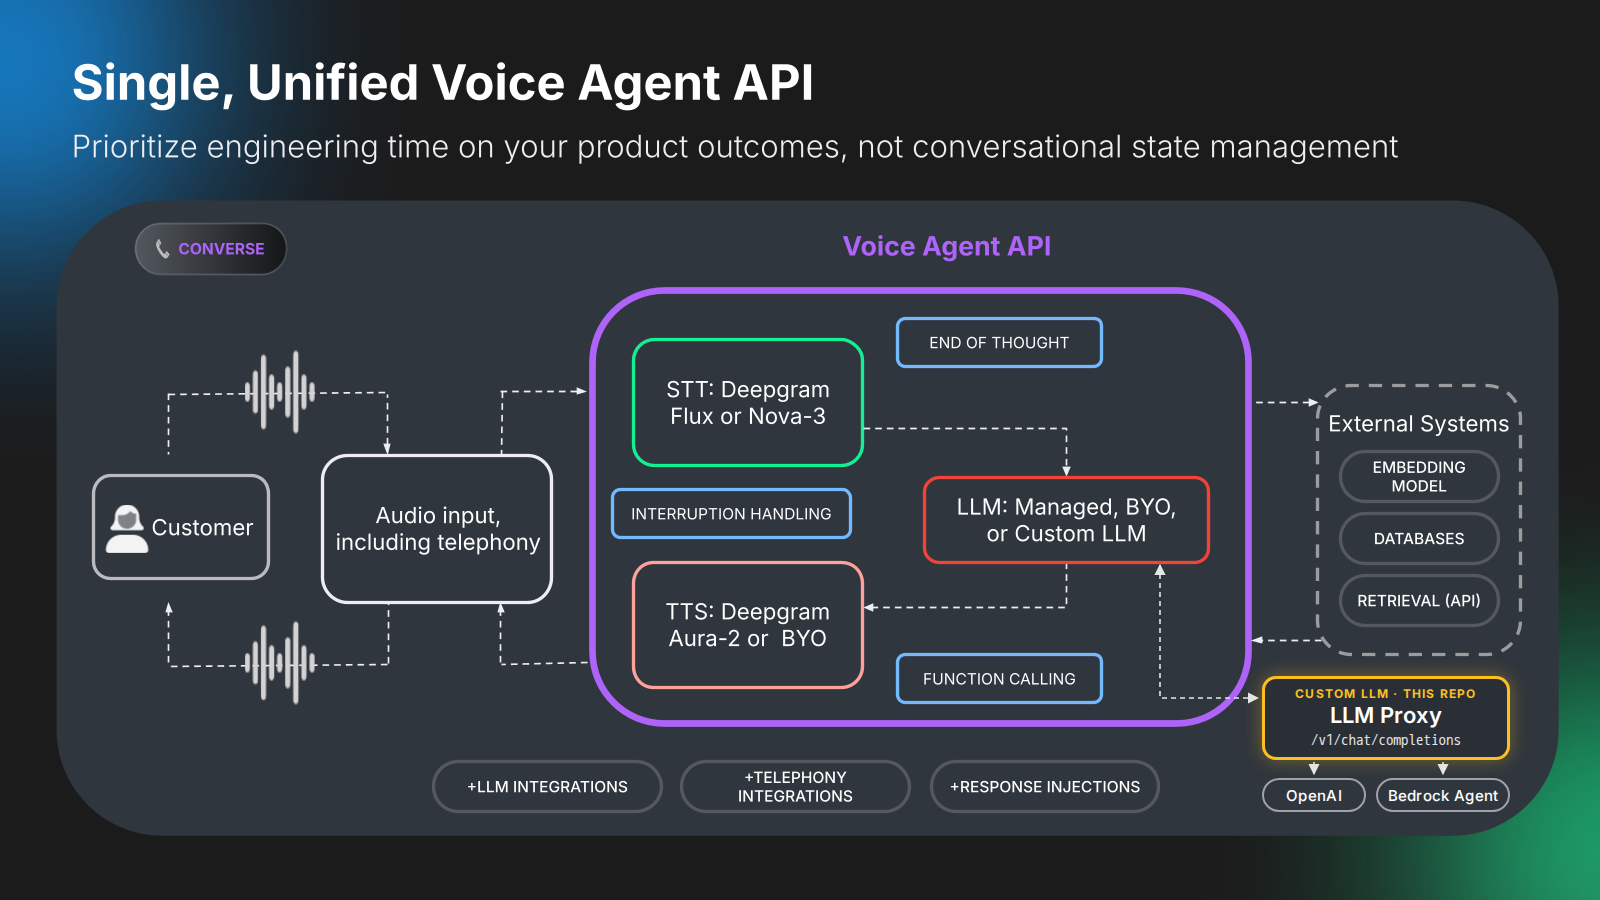
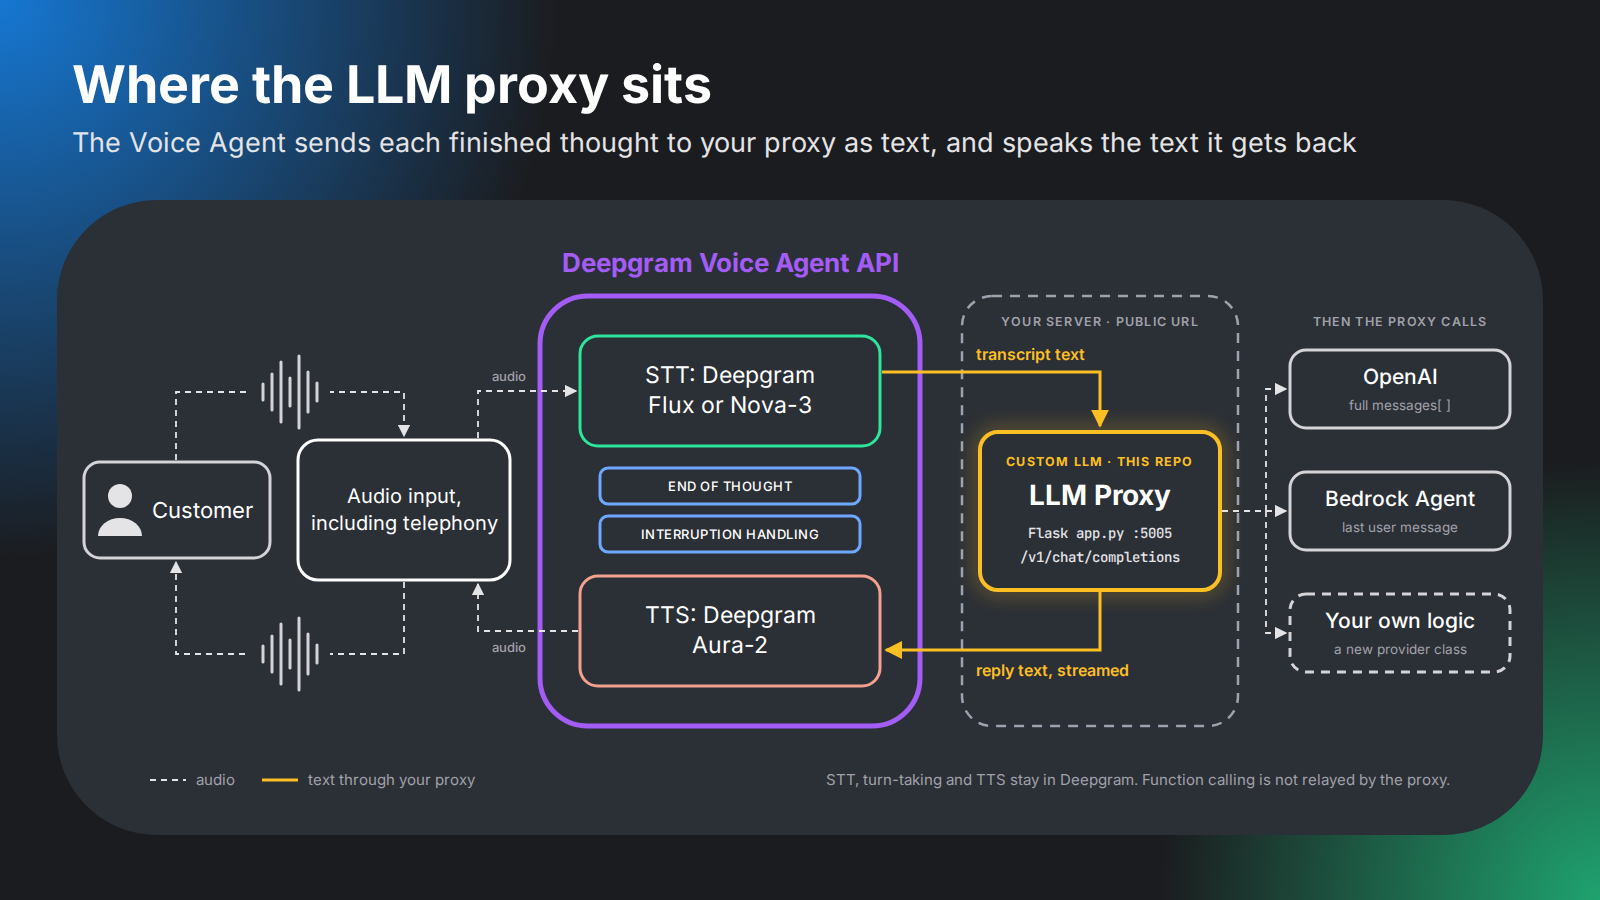
docs: redraw the How it works diagram around the proxy's text path
Replace the annotated slide with a diagram drawn in the slide's style
that shows the mechanism. STT turns speech into transcript text, the
Voice Agent sends that text to the proxy, the proxy forwards it to
OpenAI, a Bedrock Agent, or your own logic, and the reply text goes
back to TTS. Audio never reaches the proxy. Rewrite the caption to
match, and link Adding New Providers for the own-logic case.

The PNG is generated from docs/assets/src/voice-agent-api.html, which
replaces the overlay and the base slide export. Screenshotting it in a
1600x900 viewport reproduces the committed PNG byte for byte.

Claude-Session: https://claude.ai/code/session_015o6V3Mm9ZeDBsa5GEiLRCe

diff --git a/docs/assets/src/voice-agent-api.html b/docs/assets/src/voice-agent-api.html
@@ -1,0 +1,130 @@
+<!doctype html><meta charset=utf-8>
+<!--
+  Source for docs/assets/voice-agent-api.png, drawn in the style of the
+  "Single, Unified Voice Agent API" slide. To regenerate: open this file
+  in a 1600x900 viewport (deviceScaleFactor 1) and screenshot it.
+-->
+<link href="https://fonts.googleapis.com/css2?family=Inter:wght@400;500;600;700&family=JetBrains+Mono:wght@500&display=swap" rel="stylesheet">
+<style>
+html,body{margin:0;background:#1b1c1f}
+svg{display:block;width:100%;height:auto;font-family:Inter,sans-serif}
+.mono{font-family:'JetBrains Mono',monospace}
+</style>
+<svg viewBox="0 0 1600 900" role=img aria-label="Deepgram Voice Agent API with this LLM proxy: STT sends transcript text to the proxy, the proxy forwards it to OpenAI, a Bedrock Agent or your own logic, and the reply text goes back to TTS">
+<defs>
+  <radialGradient id=gb gradientUnits=userSpaceOnUse cx=0 cy=0 r=560><stop offset=0 stop-color="#1677d2"/><stop offset=1 stop-color="#1677d2" stop-opacity=0 /></radialGradient>
+  <radialGradient id=gg gradientUnits=userSpaceOnUse cx=1600 cy=900 r=440><stop offset=0 stop-color="#1fa36f"/><stop offset=1 stop-color="#1fa36f" stop-opacity=0 /></radialGradient>
+  <marker id=aw viewBox="0 0 10 10" refX=9 refY=5 markerWidth=7 markerHeight=7 orient=auto-start-reverse><path d="M0,0L10,5L0,10z" fill="#e4e4e7"/></marker>
+  <marker id=ay viewBox="0 0 10 10" refX=9 refY=5 markerWidth=6 markerHeight=6 orient=auto-start-reverse><path d="M0,0L10,5L0,10z" fill="#fbbf24"/></marker>
+  <filter id=glow x=-30% y=-30% width=160% height=160%><feGaussianBlur stdDeviation=10 /></filter>
+  <g id=wave stroke="#d4d4d8" stroke-width=3 stroke-linecap=round>
+    <line x1=-27 y1=-8 x2=-27 y2=8 /><line x1=-18 y1=-18 x2=-18 y2=18 /><line x1=-9 y1=-30 x2=-9 y2=30 />
+    <line x1=0 y1=-14 x2=0 y2=14 /><line x1=9 y1=-36 x2=9 y2=36 /><line x1=18 y1=-20 x2=18 y2=20 /><line x1=27 y1=-9 x2=27 y2=9 />
+  </g>
+</defs>
+
+<rect width=1600 height=900 fill="#1b1c1f"/>
+<rect width=1600 height=900 fill="url(#gb)"/>
+<rect width=1600 height=900 fill="url(#gg)"/>
+
+<text x=72 y=103 fill="#fff" font-size=52 font-weight=700>Where the LLM proxy sits</text>
+<text x=72 y=152 fill="#e4e4e7" font-size=27 font-weight=400>The Voice Agent sends each finished thought to your proxy as text, and speaks the text it gets back</text>
+
+<rect x=57 y=200 width=1486 height=635 rx=100 fill="#2b2f36"/>
+
+<!-- ===== Deepgram Voice Agent ===== -->
+<text x=730 y=272 text-anchor=middle fill="#a35cf5" font-size=26 font-weight=700>Deepgram Voice Agent API</text>
+<rect x=540 y=296 width=380 height=430 rx=48 fill=none stroke="#a35cf5" stroke-width=5 />
+
+<rect x=580 y=336 width=300 height=110 rx=18 fill="#2b2f36" stroke="#2ee59d" stroke-width=3 />
+<text x=730 y=383 text-anchor=middle fill="#fff" font-size=23>STT: Deepgram</text>
+<text x=730 y=413 text-anchor=middle fill="#fff" font-size=23>Flux or Nova-3</text>
+
+<g font-size=13 font-weight=500 fill="#fff" letter-spacing=.5>
+  <rect x=600 y=468 width=260 height=36 rx=8 fill=none stroke="#6ea8fe" stroke-width=3 />
+  <text x=730 y=491 text-anchor=middle>END OF THOUGHT</text>
+  <rect x=600 y=516 width=260 height=36 rx=8 fill=none stroke="#6ea8fe" stroke-width=3 />
+  <text x=730 y=539 text-anchor=middle>INTERRUPTION HANDLING</text>
+</g>
+
+<rect x=580 y=576 width=300 height=110 rx=18 fill="#2b2f36" stroke="#f4a08f" stroke-width=3 />
+<text x=730 y=623 text-anchor=middle fill="#fff" font-size=23>TTS: Deepgram</text>
+<text x=730 y=653 text-anchor=middle fill="#fff" font-size=23>Aura-2</text>
+
+<!-- ===== Caller side ===== -->
+<rect x=84 y=462 width=186 height=96 rx=16 fill=none stroke="#d4d4d8" stroke-width=3 />
+<g fill="#e4e4e7"><circle cx=120 cy=496 r=12 /><path d="M98 536a22 18 0 0 1 44 0z"/></g>
+<text x=152 y=518 fill="#fff" font-size=22>Customer</text>
+
+<rect x=298 y=440 width=212 height=140 rx=20 fill=none stroke="#fff" stroke-width=3 />
+<text x=404 y=503 text-anchor=middle fill="#fff" font-size=20>Audio input,</text>
+<text x=404 y=530 text-anchor=middle fill="#fff" font-size=20>including telephony</text>
+
+<g fill=none stroke="#e4e4e7" stroke-width=1.8 stroke-dasharray="6 5">
+  <path d="M176 460 V392 H404 V436" marker-end="url(#aw)"/>
+  <path d="M404 582 V654 H176 V562" marker-end="url(#aw)"/>
+  <path d="M478 438 V391 H576" marker-end="url(#aw)"/>
+  <path d="M578 631 H478 V584" marker-end="url(#aw)"/>
+</g>
+<g><rect x=250 y=354 width=80 height=76 fill="#2b2f36"/><use href="#wave" x=290 y=392 /></g>
+<g><rect x=250 y=616 width=80 height=76 fill="#2b2f36"/><use href="#wave" x=290 y=654 /></g>
+<text x=509 y=381 text-anchor=middle fill="#a1a1aa" font-size=13 font-weight=500>audio</text>
+<text x=509 y=652 text-anchor=middle fill="#a1a1aa" font-size=13 font-weight=500>audio</text>
+
+<!-- ===== Your server: the proxy ===== -->
+<rect x=962 y=296 width=276 height=430 rx=30 fill=none stroke="#9ca3af" stroke-width=2.5 stroke-dasharray="10 8"/>
+<text x=1100 y=326 text-anchor=middle fill="#a1a1aa" font-size=12.5 font-weight=600 letter-spacing=1.2>YOUR SERVER · PUBLIC URL</text>
+
+<g id=proxy><title>LLM proxy (this repo)</title>
+<rect x=980 y=432 width=240 height=158 rx=18 fill=none stroke="#fbbf24" stroke-width=8 opacity=.45 filter="url(#glow)"/>
+<rect x=980 y=432 width=240 height=158 rx=18 fill="#2b2f36" stroke="#fbbf24" stroke-width=4 />
+<text x=1100 y=466 text-anchor=middle fill="#fbbf24" font-size=12.5 font-weight=700 letter-spacing=1.2>CUSTOM LLM · THIS REPO</text>
+<text x=1100 y=505 text-anchor=middle fill="#fff" font-size=28 font-weight=700>LLM Proxy</text>
+<text x=1100 y=538 text-anchor=middle fill="#e4e4e7" font-size=14 class=mono>Flask app.py :5005</text>
+<text x=1100 y=562 text-anchor=middle fill="#e4e4e7" font-size=14 class=mono>/v1/chat/completions</text>
+</g>
+
+<!-- the text path: STT -> proxy -> TTS -->
+<g id=text-path><title>Text path: transcript to the proxy, reply text back to TTS</title>
+<g fill=none stroke="#fbbf24" stroke-width=3>
+  <path d="M882 372 H1100 V426" marker-end="url(#ay)"/>
+  <path d="M1100 592 V650 H886" marker-end="url(#ay)"/>
+</g>
+<g font-weight=600 font-size=16 fill="#fbbf24">
+  <text x=976 y=360>transcript text</text>
+  <text x=976 y=676>reply text, streamed</text>
+</g>
+</g>
+
+<!-- ===== What the proxy does with the text ===== -->
+<g id=providers><title>What the proxy calls</title>
+<text x=1400 y=326 text-anchor=middle fill="#a1a1aa" font-size=12.5 font-weight=600 letter-spacing=1.2>THEN THE PROXY CALLS</text>
+<g fill=none stroke="#d4d4d8" stroke-width=3>
+  <rect x=1290 y=350 width=220 height=78 rx=16 />
+  <rect x=1290 y=472 width=220 height=78 rx=16 />
+  <rect x=1290 y=594 width=220 height=78 rx=16 stroke-dasharray="9 7"/>
+</g>
+<g text-anchor=middle>
+  <text x=1400 y=384 fill="#fff" font-size=21 font-weight=500>OpenAI</text>
+  <text x=1400 y=410 fill="#a1a1aa" font-size=13.5>full messages[ ]</text>
+  <text x=1400 y=506 fill="#fff" font-size=21 font-weight=500>Bedrock Agent</text>
+  <text x=1400 y=532 fill="#a1a1aa" font-size=13.5>last user message</text>
+  <text x=1400 y=628 fill="#fff" font-size=21 font-weight=500>Your own logic</text>
+  <text x=1400 y=654 fill="#a1a1aa" font-size=13.5>a new provider class</text>
+</g>
+<g fill=none stroke="#e4e4e7" stroke-width=1.8 stroke-dasharray="6 5">
+  <path d="M1222 511 H1266 V389 H1286" marker-end="url(#aw)"/>
+  <path d="M1222 511 H1286" marker-end="url(#aw)"/>
+  <path d="M1266 511 V633 H1286" marker-end="url(#aw)"/>
+</g>
+
+</g>
+<!-- ===== Footer ===== -->
+<g font-size=15 fill="#a1a1aa">
+  <line x1=150 y1=780 x2=186 y2=780 stroke="#e4e4e7" stroke-width=1.8 stroke-dasharray="6 5"/>
+  <text x=196 y=785>audio</text>
+  <line x1=262 y1=780 x2=298 y2=780 stroke="#fbbf24" stroke-width=3 />
+  <text x=308 y=785>text through your proxy</text>
+  <text x=1450 y=785 text-anchor=end>STT, turn-taking and TTS stay in Deepgram. Function calling is not relayed by the proxy.</text>
+</g>
+</svg>

diff --git a/README.md b/README.md
@@ -29,11 +29,15 @@ The Voice Agent's `think` step normally calls an LLM provider directly. With thi
 
 Deepgram's servers make the `think` call, not the end user's browser, so the proxy needs a public URL (ngrok locally, or a load balancer in AWS).
 
-![Deepgram Voice Agent API with this proxy: the Voice Agent's LLM step calls the LLM Proxy, which calls OpenAI or a Bedrock Agent](docs/assets/voice-agent-api.png)
+![Deepgram Voice Agent API with this proxy: STT sends transcript text to the LLM proxy, the proxy calls OpenAI, a Bedrock Agent or your own logic, and the reply text goes back to TTS](docs/assets/voice-agent-api.png)
 
-This proxy is the yellow **LLM Proxy** box: the Voice Agent's "Custom LLM" option. The Voice Agent sends each turn to `POST /v1/chat/completions` on the proxy (Flask `app.py`, port 5005), which picks a provider from `body.provider` or `PROVIDER_NAME`. OpenAI gets the full `messages[]` through `chat.completions.create`. A Bedrock Agent gets only the last user message through `invoke_agent`. The proxy streams the reply back as OpenAI-style SSE chunks.
+Audio never reaches the proxy. Deepgram turns the caller's speech into text, decides when they've finished a thought, and sends that transcript to the proxy (the yellow path). The proxy can forward the text to an LLM or act on it itself; whatever text it returns is what the agent speaks.
 
-The slide shows the whole Voice Agent API. Speech-to-text, text-to-speech, end-of-thought detection and interruption handling run inside Deepgram, so they work unchanged with this proxy. Function calling does not pass through the proxy, and neither do the External Systems the slide reaches with it (embeddings, databases, retrieval). See [Known limitations](#known-limitations).
+The Voice Agent posts each turn to `POST /v1/chat/completions` on the proxy (Flask `app.py`, port 5005), which picks a provider from `body.provider` or `PROVIDER_NAME`. OpenAI gets the full `messages[]` through `chat.completions.create`. A Bedrock Agent gets only the last user message through `invoke_agent`. Your own logic goes in a new provider class (see [Adding New Providers](#adding-new-providers)). The proxy streams the reply back as OpenAI-style SSE chunks.
+
+Speech-to-text, end-of-thought detection, interruption handling and text-to-speech stay inside Deepgram and work unchanged. Function calling is not relayed through the proxy; see [Known limitations](#known-limitations).
+
+The diagram source is `docs/assets/src/voice-agent-api.html`. To regenerate the PNG, screenshot it in a 1600×900 viewport.
 
 ### One conversational turn
 
